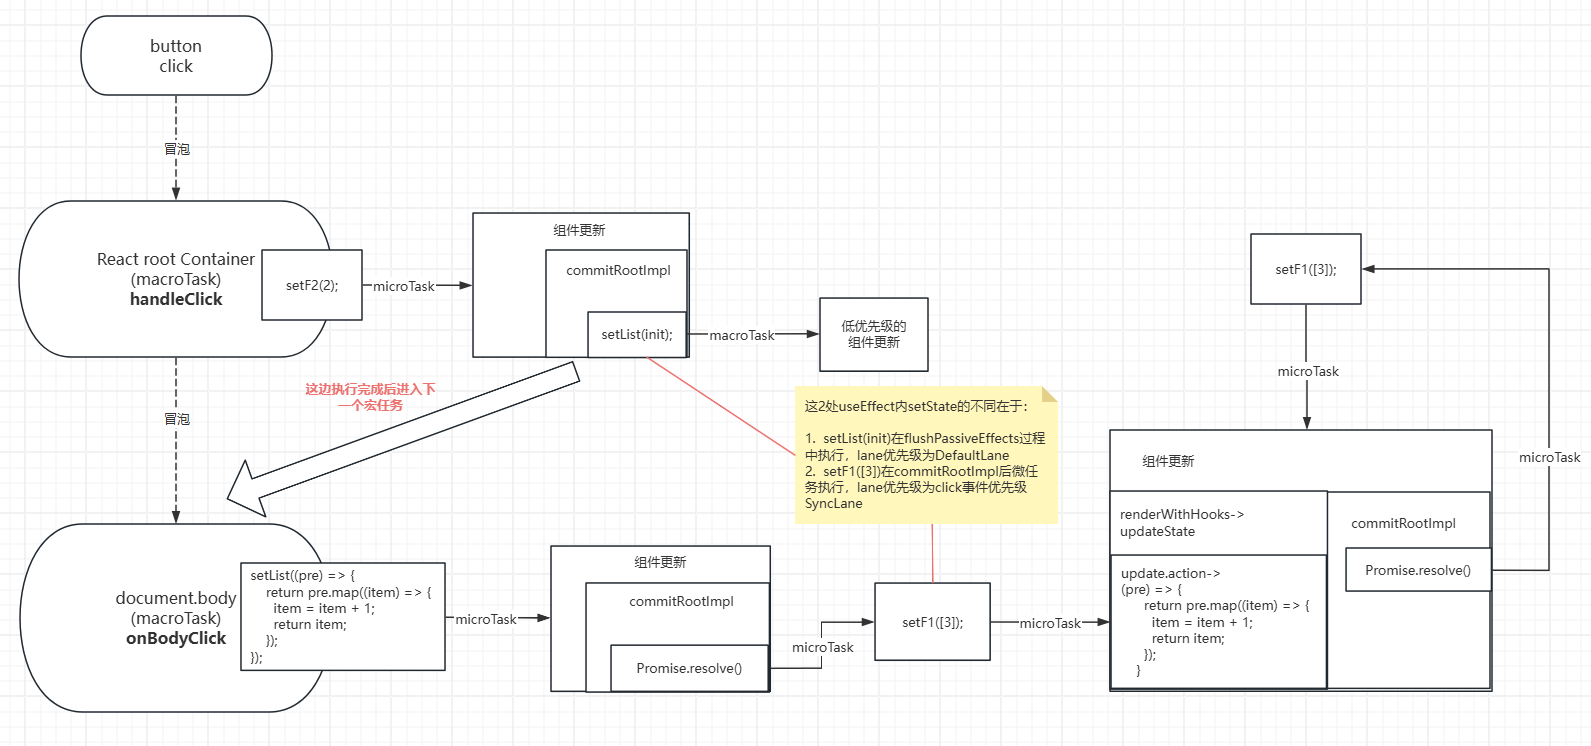
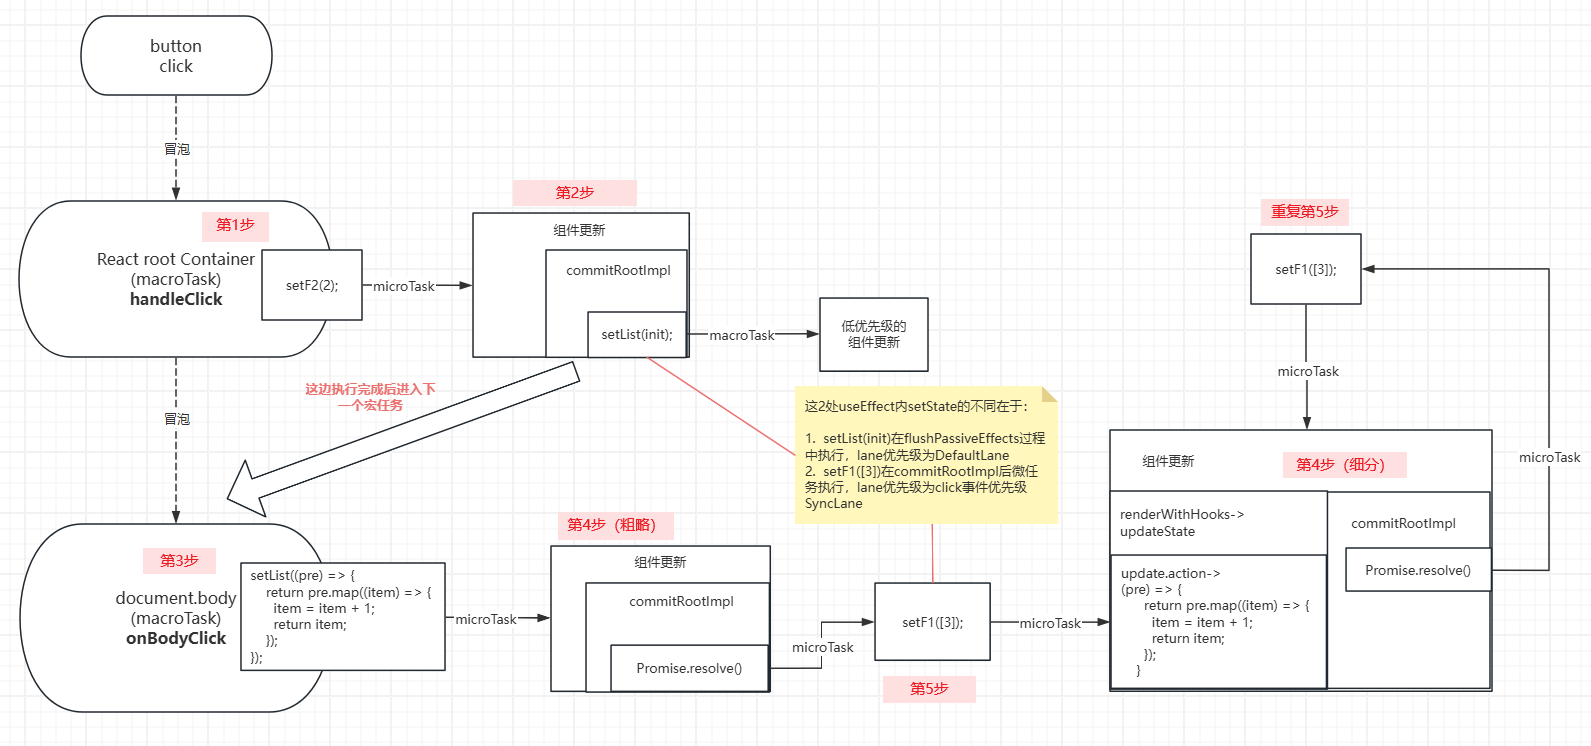
update: 调整文本和图片

diff --git a/source/_posts/React组件循环渲染问题排查.md b/source/_posts/React组件循环渲染问题排查.md
@@ -114,19 +114,20 @@ toc: true
 
 ![整体分析推导](./images/React组件循环渲染问题排查/整体分析推导.png)
 
-1. 根容器上响应click触发handleClick进行setF2；同时click进一步冒泡到body，安排了下一个宏任务。
-2. setF2安排了Sync的微任务执行更新渲染，从而走了【第48行】setList，此时处于flushPassiveEffects执行过程当中，此时变更list产生的更新，Lane优先级为DefaultEventPriority，从而使得任务的调度优先级为NormalSchedulerPriority，就先存了一个低优先级的宏任务在hook的queue上，等待后续执行。
+1. 宏任务：根容器上响应click触发合成事件，handleClick进行到setF2，setF2安排了Sync的微任务执行更新渲染
+2. 微任务：更新渲染时commit阶段，同步执行useEffect，执行到【第48行】setList，此时处于flushPassiveEffects执行过程当中，此时变更list产生的更新，Lane优先级为DefaultEventPriority，从而使得任务的调度优先级为NormalSchedulerPriority，就先存了一个低优先级的宏任务（MessageChannel）在hook的queue上，等待后续执行。
 
   ![useEffect内回调的优先级设置](./images/React组件循环渲染问题排查/useEffect内回调的优先级设置.png)
-3. 下一个宏任务触发onBodyClick执行【第26行】setList产生的更新Lane优先级为SyncLane，就又存了一个高优先级的任务在hook的queue上，并安排了Sync的微任务更新渲染。
-4. 微任务更新时先render，走【第11行】useState时，发现当前hook.queue上存在2个update，但是第一个是低优先，先保留不执行；第二个是高优先级任务，执行，但是由于前面有低优先级任务，也需要保留。此时hook.queue就没有被清理。
-5. 后续更新时走commit阶段，在commitRootImpl阶段，由于满足SyncLane条件导致effect回调被同步执行
+3. 下一个宏任务：注意此时虽然存了MessageChannel事件，但是同时click进一步冒泡到body，也是一个宏任务。那么该取哪个呢？浏览器会认为点击的冒泡是更高优先级的<sup>[参考](https://segmentfault.com/a/1190000037516439)</sup>。所以下一个宏任务触发onBodyClick，执行【第26行】setList产生的更新Lane优先级为SyncLane，就又存了一个高优先级的任务在hook的queue上，并安排了Sync的微任务更新渲染。
+4. 微任务: 进行组件更新
+   - 先render阶段，走【第11行】useState时，发现当前hook.queue上存在2个update，但是第一个是低优先，先保留不执行；第二个是高优先级任务，执行，但是由于前面有低优先级任务，也需要保留。此时hook.queue就没有被清理。
+   - 后commit阶段，在commitRootImpl阶段，由于满足SyncLane条件导致effect回调被同步执行
 
   ![同步effect回调被执行的时机](./images/React组件循环渲染问题排查/同步effect回调被执行的时机.gif)
-6. 同步执行回调时由于setF1([3])是在Promise.resolve()之后的，currentUpdatePriority已被重制，所以setF1添加的更新与第2步不同，此时添加的更新优先级等同于当前body.click事件的优先级，lane属于同步（高优先级），因此后续添加一个Sync的微任务更新渲染。
+5. Promise微任务: 同步执行回调时由于setF1([3])是在Promise.resolve()之后的，currentUpdatePriority已被重制。所以setF1添加的更新与第2步不同，此时添加的更新优先级等同于当前body.click事件的优先级，lane属于同步（高优先级），因此后续添加一个新的Sync的微任务更新渲染。
 
   ![setF1的更新lane优先级](./images/React组件循环渲染问题排查/setF1的更新lane优先级.gif)
-7. 由于前文已经提到，list这个hook.queue没有被清理，因此后一次渲染会重复4-6的步骤，导致微任务一直产生，就卡这了
+6. 由于前文已经提到，list这个hook.queue没有被清理，因此后一次渲染会重复4-5的步骤，导致微任务一直产生，就卡这了
 
 事实上这一切主要原因来自于React的任务优先级及调度设计
 ## 3.修复方案
